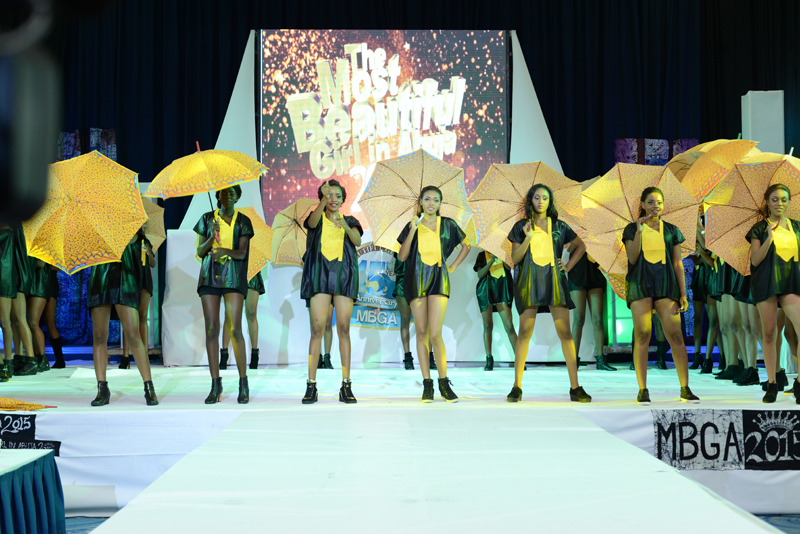
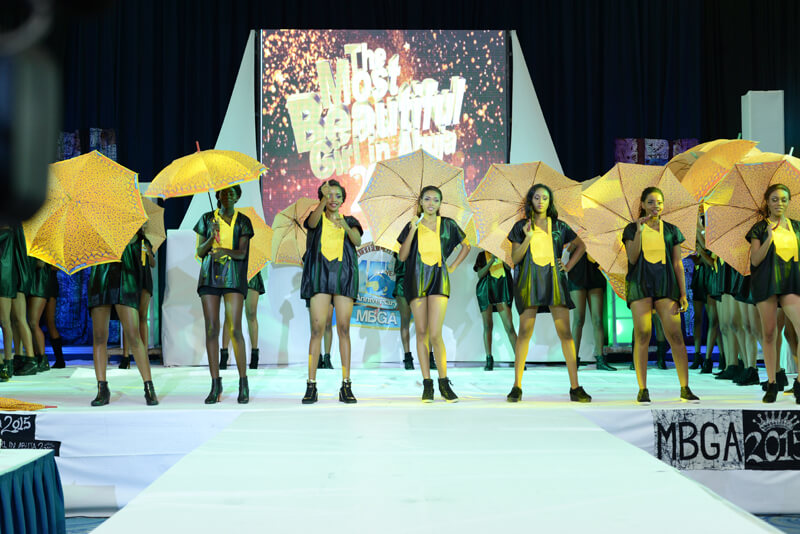
Optimized all the images

diff --git a/resources/views/user/index.blade.php b/resources/views/user/index.blade.php
@@ -44,7 +44,7 @@
                         <span class="icon-bar"></span>
                         <span class="icon-bar"></span>
                     </button>
-                    <a class="navbar-brand" href="{{action('RegisterController@index')}}" ><img src='{{ asset('image/logo1.png')}}'  /></a>
+                    <a class="navbar-brand hidden-sm hidden-xs" href="{{action('RegisterController@index')}}" ><img src='{{ asset('image/logo1.png')}}'  /></a>
                 </div>
                 <!-- Collect the nav links, forms, and other content for toggling -->
                 <div class="collapse navbar-collapse" id="bs-example-navbar-collapse-1">

diff --git a/resources/views/user/about.blade.php b/resources/views/user/about.blade.php
@@ -30,7 +30,7 @@
         <![endif]-->
         <style>
             body {
-                background: url(../image/DSC_0741.JPG) fixed;
+                background: url(../image/DSC_0741.jpg) fixed;
                 background-size:1600px 1063px;
                 background-repeat: no-repeat;
 
